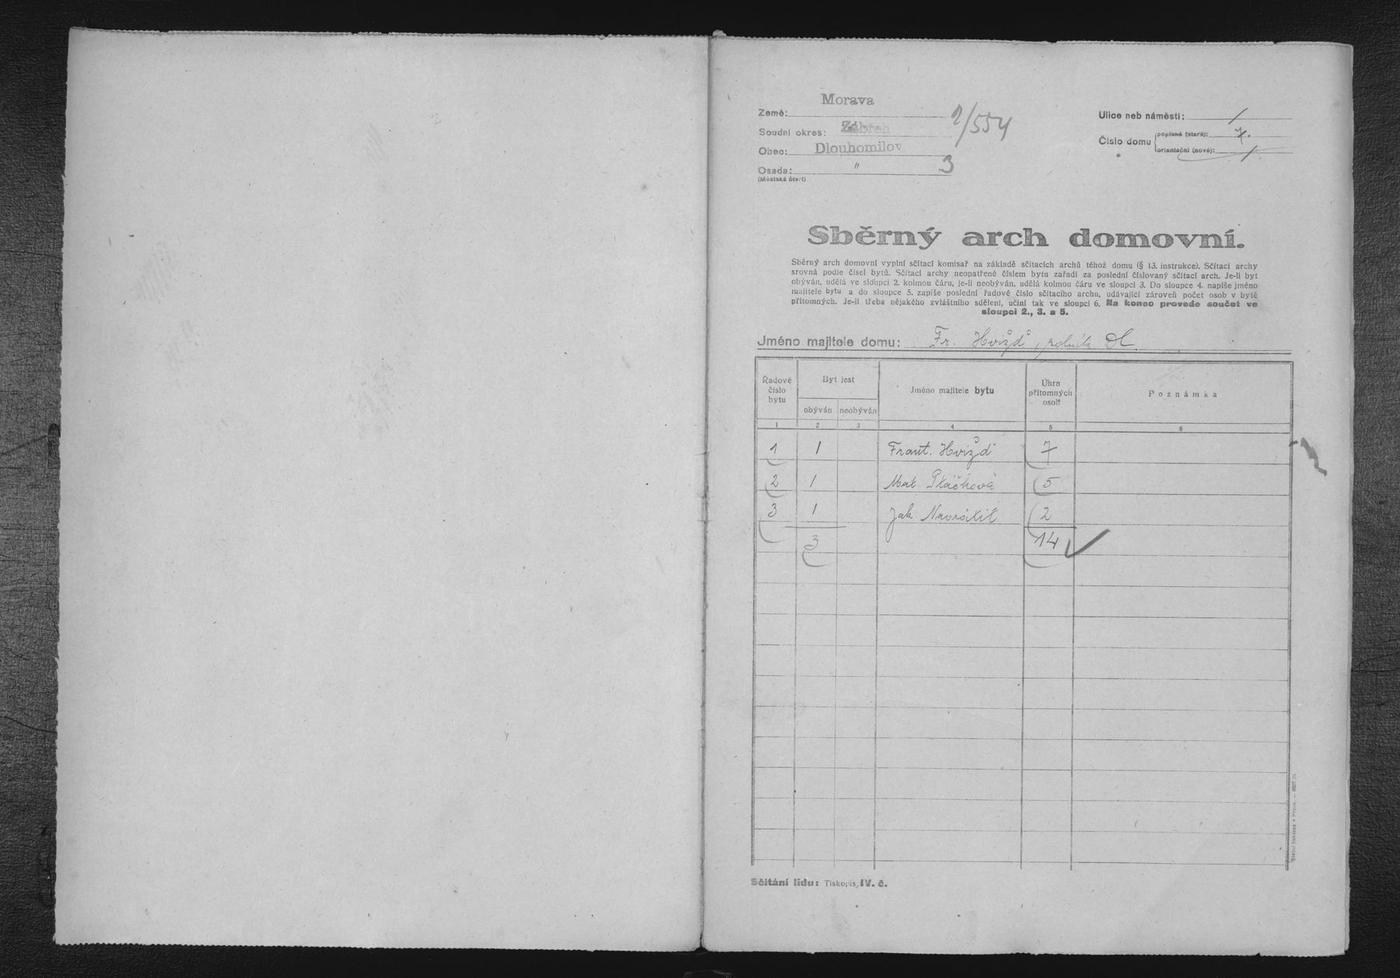
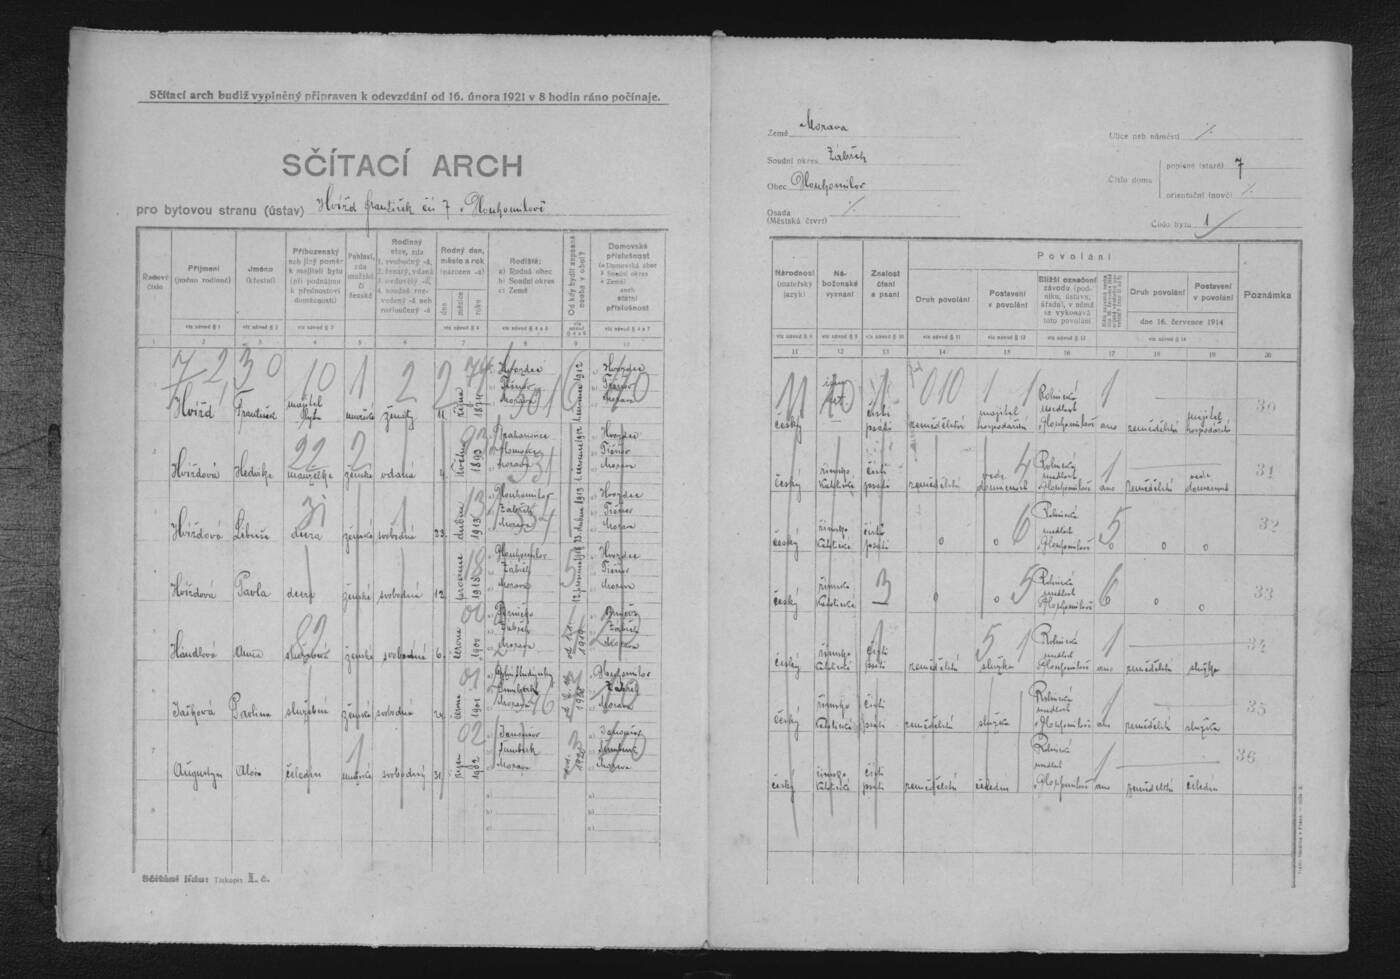
fix(cp7): overeni a oprava obyvatel bytu c. 1 rychty cp. 7 ze skenu 1921 (Hvizd, Handlova, Taskova, Augustyn)

diff --git a/data/census_registry.js b/data/census_registry.js
@@ -8,80 +8,80 @@ const censusRegistryData = [
     "censusYear": 1921,
     "houseNumber": "7",
     "houseId": "cp7",
-    "fullName": "František Hvízd",
+    "fullName": "František Hvížď",
     "firstName": "František",
-    "lastName": "Hvízd",
+    "lastName": "Hvížď",
     "categoryKey": "grunt",
     "categoryLabel": "Držitel gruntu / Hospodář",
     "categoryIcon": "🏡",
     "categoryBadgeClass": "bg-emerald-100 text-emerald-950 border-emerald-300",
-    "birthDate": "22. 11. 1874",
+    "birthDate": "11. 10. 1874",
     "relation": "Hlava rodiny / Majitel usedlosti",
     "birthPlace": "Hvozdec",
     "religion": "římskokatolické",
     "language": "československá",
-    "occupation": "Rolník na vlastním statku",
+    "occupation": "Rolník na vlastním statku (v obci od 1. 7. 1912)",
     "notes": "Hlava rodiny / Majitel usedlosti | gramotnost: čte i píše",
     "scanFile": "assets/archives/cp7/su1000_c_pom_411_inv_c_1863_fascikl_3_null_dlouhomilov_serie_cp_1_118_1921_0036.jpg",
-    "scanTitle": "Sčítací operát 1921 – Bývalá dědičná rychta čp. 7 (František Hvízd)"
+    "scanTitle": "Sčítací operát 1921 – Bývalá dědičná rychta čp. 7 (František Hvížď)"
   },
   {
     "id": "cen_2",
     "censusYear": 1921,
     "houseNumber": "7",
     "houseId": "cp7",
-    "fullName": "Hedvika Hvízdová",
+    "fullName": "Hedvika Hvížďová",
     "firstName": "Hedvika",
-    "lastName": "Hvízdová",
+    "lastName": "Hvížďová",
     "categoryKey": "rodina",
     "categoryLabel": "Člen rodiny hospodáře",
     "categoryIcon": "👨👩👧",
     "categoryBadgeClass": "bg-sky-100 text-sky-950 border-sky-300",
     "birthDate": "4. 5. 1893",
     "relation": "Manželka",
-    "birthPlace": "Drahany",
+    "birthPlace": "Drahanovice",
     "religion": "římskokatolické",
     "language": "československá",
-    "occupation": "V domácnosti a hospodářství",
+    "occupation": "Vedení domácnosti a hospodářství (v obci od 1. 7. 1912)",
     "notes": "Manželka | gramotnost: čte i píše",
     "scanFile": "assets/archives/cp7/su1000_c_pom_411_inv_c_1863_fascikl_3_null_dlouhomilov_serie_cp_1_118_1921_0036.jpg",
-    "scanTitle": "Sčítací operát 1921 – Bývalá dědičná rychta čp. 7 (Hedvika Hvízdová)"
+    "scanTitle": "Sčítací operát 1921 – Bývalá dědičná rychta čp. 7 (Hedvika Hvížďová)"
   },
   {
     "id": "cen_3",
     "censusYear": 1921,
     "houseNumber": "7",
     "houseId": "cp7",
-    "fullName": "Libuše Hvízdová",
+    "fullName": "Libuše Hvížďová",
     "firstName": "Libuše",
-    "lastName": "Hvízdová",
+    "lastName": "Hvížďová",
     "categoryKey": "dite",
     "categoryLabel": "Dítě / Školák",
     "categoryIcon": "🧒",
     "categoryBadgeClass": "bg-pink-100 text-pink-950 border-pink-300",
     "birthDate": "23. 4. 1913",
     "relation": "Dcera",
-    "birthPlace": "Hvozdec",
+    "birthPlace": "Dlouhomilov",
     "religion": "římskokatolické",
     "language": "československá",
     "occupation": "Dítě / školačka",
     "notes": "Dcera | gramotnost: čte i píše",
     "scanFile": "assets/archives/cp7/su1000_c_pom_411_inv_c_1863_fascikl_3_null_dlouhomilov_serie_cp_1_118_1921_0036.jpg",
-    "scanTitle": "Sčítací operát 1921 – Bývalá dědičná rychta čp. 7 (Libuše Hvízdová)"
+    "scanTitle": "Sčítací operát 1921 – Bývalá dědičná rychta čp. 7 (Libuše Hvížďová)"
   },
   {
     "id": "cen_4",
     "censusYear": 1921,
     "houseNumber": "7",
     "houseId": "cp7",
-    "fullName": "Pavla Hvízdová",
+    "fullName": "Pavla Hvížďová",
     "firstName": "Pavla",
-    "lastName": "Hvízdová",
+    "lastName": "Hvížďová",
     "categoryKey": "dite",
     "categoryLabel": "Dítě / Školák",
     "categoryIcon": "🧒",
     "categoryBadgeClass": "bg-pink-100 text-pink-950 border-pink-300",
-    "birthDate": "18. 12. 1918",
+    "birthDate": "12. 12. 1918",
     "relation": "Dcera",
     "birthPlace": "Dlouhomilov",
     "religion": "římskokatolické",
@@ -89,73 +89,73 @@ const censusRegistryData = [
     "occupation": "Dítě",
     "notes": "Dcera | gramotnost: nečte",
     "scanFile": "assets/archives/cp7/su1000_c_pom_411_inv_c_1863_fascikl_3_null_dlouhomilov_serie_cp_1_118_1921_0036.jpg",
-    "scanTitle": "Sčítací operát 1921 – Bývalá dědičná rychta čp. 7 (Pavla Hvízdová)"
+    "scanTitle": "Sčítací operát 1921 – Bývalá dědičná rychta čp. 7 (Pavla Hvížďová)"
   },
   {
     "id": "cen_5",
     "censusYear": 1921,
     "houseNumber": "7",
     "houseId": "cp7",
-    "fullName": "Anna Kandlová",
+    "fullName": "Anna Hándlová",
     "firstName": "Anna",
-    "lastName": "Kandlová",
+    "lastName": "Hándlová",
     "categoryKey": "celed",
     "categoryLabel": "Čeleď a služebnictvo",
     "categoryIcon": "🐎",
     "categoryBadgeClass": "bg-amber-100 text-amber-950 border-amber-300",
     "birthDate": "6. 6. 1900",
     "relation": "Služebná děvečka",
-    "birthPlace": "Rohle",
+    "birthPlace": "Brníčko",
     "religion": "římskokatolické",
     "language": "československá",
-    "occupation": "Služebná při polním hospodářství",
+    "occupation": "Služebná při polním hospodářství (v obci od 1. 11. 1919)",
     "notes": "Služebná děvečka | gramotnost: čte i píše",
     "scanFile": "assets/archives/cp7/su1000_c_pom_411_inv_c_1863_fascikl_3_null_dlouhomilov_serie_cp_1_118_1921_0036.jpg",
-    "scanTitle": "Sčítací operát 1921 – Bývalá dědičná rychta čp. 7 (Anna Kandlová)"
+    "scanTitle": "Sčítací operát 1921 – Bývalá dědičná rychta čp. 7 (Anna Hándlová)"
   },
   {
     "id": "cen_6",
     "censusYear": 1921,
     "houseNumber": "7",
     "houseId": "cp7",
-    "fullName": "Pavlína Švábová",
+    "fullName": "Pavlína Tašková",
     "firstName": "Pavlína",
-    "lastName": "Švábová",
+    "lastName": "Tašková",
     "categoryKey": "celed",
     "categoryLabel": "Čeleď a služebnictvo",
     "categoryIcon": "🐎",
     "categoryBadgeClass": "bg-amber-100 text-amber-950 border-amber-300",
-    "birthDate": "24. 10. 1901",
+    "birthDate": "24. 6. 1901",
     "relation": "Služebná děvečka",
     "birthPlace": "Horní Studénky",
     "religion": "římskokatolické",
     "language": "československá",
-    "occupation": "Služebná při polním hospodářství",
+    "occupation": "Služebná při polním hospodářství (v obci od 2. 10. 1908)",
     "notes": "Služebná děvečka | gramotnost: čte i píše",
     "scanFile": "assets/archives/cp7/su1000_c_pom_411_inv_c_1863_fascikl_3_null_dlouhomilov_serie_cp_1_118_1921_0036.jpg",
-    "scanTitle": "Sčítací operát 1921 – Bývalá dědičná rychta čp. 7 (Pavlína Švábová)"
+    "scanTitle": "Sčítací operát 1921 – Bývalá dědičná rychta čp. 7 (Pavlína Tašková)"
   },
   {
     "id": "cen_7",
     "censusYear": 1921,
     "houseNumber": "7",
     "houseId": "cp7",
-    "fullName": "Alois Augustýn",
+    "fullName": "Alois Augustyn",
     "firstName": "Alois",
-    "lastName": "Augustýn",
+    "lastName": "Augustyn",
     "categoryKey": "celed",
     "categoryLabel": "Čeleď a služebnictvo",
     "categoryIcon": "🐎",
     "categoryBadgeClass": "bg-amber-100 text-amber-950 border-amber-300",
-    "birthDate": "31. 1. 1902",
+    "birthDate": "31. 10. 1902",
     "relation": "Čeledín",
     "birthPlace": "Janoušov",
     "religion": "římskokatolické",
     "language": "československá",
-    "occupation": "Zemědělský čeledín při statku",
+    "occupation": "Zemědělský čeledín při statku (v obci od listopadu 1920)",
     "notes": "Čeledín | gramotnost: čte i píše",
     "scanFile": "assets/archives/cp7/su1000_c_pom_411_inv_c_1863_fascikl_3_null_dlouhomilov_serie_cp_1_118_1921_0036.jpg",
-    "scanTitle": "Sčítací operát 1921 – Bývalá dědičná rychta čp. 7 (Alois Augustýn)"
+    "scanTitle": "Sčítací operát 1921 – Bývalá dědičná rychta čp. 7 (Alois Augustyn)"
   },
   {
     "id": "cen_8",

diff --git a/data/houses.js b/data/houses.js
@@ -915,8 +915,8 @@ const housesData = [
       },
       {
         "year": "1921",
-        "owner": "František Hvízd (*1874)",
-        "event": "Sčítání 1921: Majitelem rychty je František Hvízd z Hvozdce. Na výměnku žije Mathilda Ptáčková roz. Všetečková (z původního dědičného rychtářského rodu Všetečků) s dcerou Eliškou (industriální učitelka) a synem Zdeňkem (posluchač techniky v Brně), a penzionovaní rolníci Jakub a Anna Navrátilovi z Drahanovic.",
+        "owner": "František Hvížď (*1874)",
+        "event": "Sčítání 1921: Majitelem rychty je František Hvížď z Hvozdce. Na výměnku žije Mathilda Ptáčková roz. Všetečková (z původního dědičného rychtářského rodu Všetečků) s dcerou Eliškou (industriální učitelka) a synem Zdeňkem (posluchač techniky v Brně), a penzionovaní rolníci Jakub a Anna Navrátilovi z Drahanovic.",
         "sourceType": "verified",
         "source": "ZAO, Sčítání 1921, fascikl 3, arch čp. 7.",
         "scanFile": "assets/archives/cp7/su1000_c_pom_411_inv_c_1863_fascikl_3_null_dlouhomilov_serie_cp_1_118_1921_0036.jpg",
@@ -936,44 +936,44 @@ const housesData = [
         "date": "15. února 1921",
         "isSample": false,
         "archiveSource": "Zemský archiv v Opavě, fond Okresní úřad Zábřeh, Sčítání lidu 1921, fascikl 3, arch čp. 7 (snímky 0036, 0038, 0040, 0042)",
-        "note": "Originální sčítací operát ČSR 1921. Dům byl rozdělen na 3 byty (14 obyvatel): Byt č. 1 (rodina nového majitele Františka Hvízda a čeleď, 7 osob), Byt č. 2 (výměnek rychtářského rodu – Mathilda Ptáčková roz. Všetečková s dětmi industriální učitelkou a vysokoškolákem techniky, 5 osob) a Byt č. 3 (výměnkář Jakub Navrátil s chotí z Hané, 2 osoby).",
+        "note": "Originální sčítací operát ČSR 1921 (ověřeno z primárního skenu e538 / 0036). Dům byl rozdělen na 3 byty (14 obyvatel): Byt č. 1 (rodina nového majitele Františka Hvížďa a čeleď, 7 osob – běžné pořadové č. 30–36), Byt č. 2 (výměnek rychtářského rodu – Mathilda Ptáčková roz. Všetečková s dětmi, 5 osob) a Byt č. 3 (výměnkář Jakub Navrátil s chotí z Drahanovic, 2 osoby).",
         "scanFile": "assets/archives/cp7/su1000_c_pom_411_inv_c_1863_fascikl_3_null_dlouhomilov_serie_cp_1_118_1921_0036.jpg",
         "scanTitle": "Sčítací operát 1921 – Bývalá dědičná rychta čp. 7",
         "inhabitants": [
           {
-            "name": "František Hvízd",
+            "name": "František Hvížď",
             "relation": "Hlava rodiny / Majitel usedlosti",
-            "birthDate": "22. 11. 1874",
+            "birthDate": "11. 10. 1874",
             "birthPlace": "Hvozdec",
             "religion": "římskokatolické",
             "nationality": "československá",
-            "occupation": "Rolník na vlastním statku",
+            "occupation": "Rolník na vlastním statku (v obci od 1. 7. 1912)",
             "literacy": "čte i píše"
           },
           {
-            "name": "Hedvika Hvízdová",
+            "name": "Hedvika Hvížďová",
             "relation": "Manželka",
             "birthDate": "4. 5. 1893",
-            "birthPlace": "Drahany",
+            "birthPlace": "Drahanovice",
             "religion": "římskokatolické",
             "nationality": "československá",
-            "occupation": "V domácnosti a hospodářství",
+            "occupation": "Vedení domácnosti a hospodářství (v obci od 1. 7. 1912)",
             "literacy": "čte i píše"
           },
           {
-            "name": "Libuše Hvízdová",
+            "name": "Libuše Hvížďová",
             "relation": "Dcera",
             "birthDate": "23. 4. 1913",
-            "birthPlace": "Hvozdec",
+            "birthPlace": "Dlouhomilov",
             "religion": "římskokatolické",
             "nationality": "československá",
             "occupation": "Dítě / školačka",
             "literacy": "čte i píše"
           },
           {
-            "name": "Pavla Hvízdová",
+            "name": "Pavla Hvížďová",
             "relation": "Dcera",
-            "birthDate": "18. 12. 1918",
+            "birthDate": "12. 12. 1918",
             "birthPlace": "Dlouhomilov",
             "religion": "římskokatolické",
             "nationality": "československá",
@@ -981,33 +981,33 @@ const housesData = [
             "literacy": "nečte"
           },
           {
-            "name": "Anna Kandlová",
+            "name": "Anna Hándlová",
             "relation": "Služebná děvečka",
             "birthDate": "6. 6. 1900",
-            "birthPlace": "Rohle",
+            "birthPlace": "Brníčko",
             "religion": "římskokatolické",
             "nationality": "československá",
-            "occupation": "Služebná při polním hospodářství",
+            "occupation": "Služebná při polním hospodářství (v obci od 1. 11. 1919)",
             "literacy": "čte i píše"
           },
           {
-            "name": "Pavlína Švábová",
+            "name": "Pavlína Tašková",
             "relation": "Služebná děvečka",
-            "birthDate": "24. 10. 1901",
+            "birthDate": "24. 6. 1901",
             "birthPlace": "Horní Studénky",
             "religion": "římskokatolické",
             "nationality": "československá",
-            "occupation": "Služebná při polním hospodářství",
+            "occupation": "Služebná při polním hospodářství (v obci od 2. 10. 1908)",
             "literacy": "čte i píše"
           },
           {
-            "name": "Alois Augustýn",
+            "name": "Alois Augustyn",
             "relation": "Čeledín",
-            "birthDate": "31. 1. 1902",
+            "birthDate": "31. 10. 1902",
             "birthPlace": "Janoušov",
             "religion": "římskokatolické",
             "nationality": "československá",
-            "occupation": "Zemědělský čeledín při statku",
+            "occupation": "Zemědělský čeledín při statku (v obci od listopadu 1920)",
             "literacy": "čte i píše"
           },
           {
